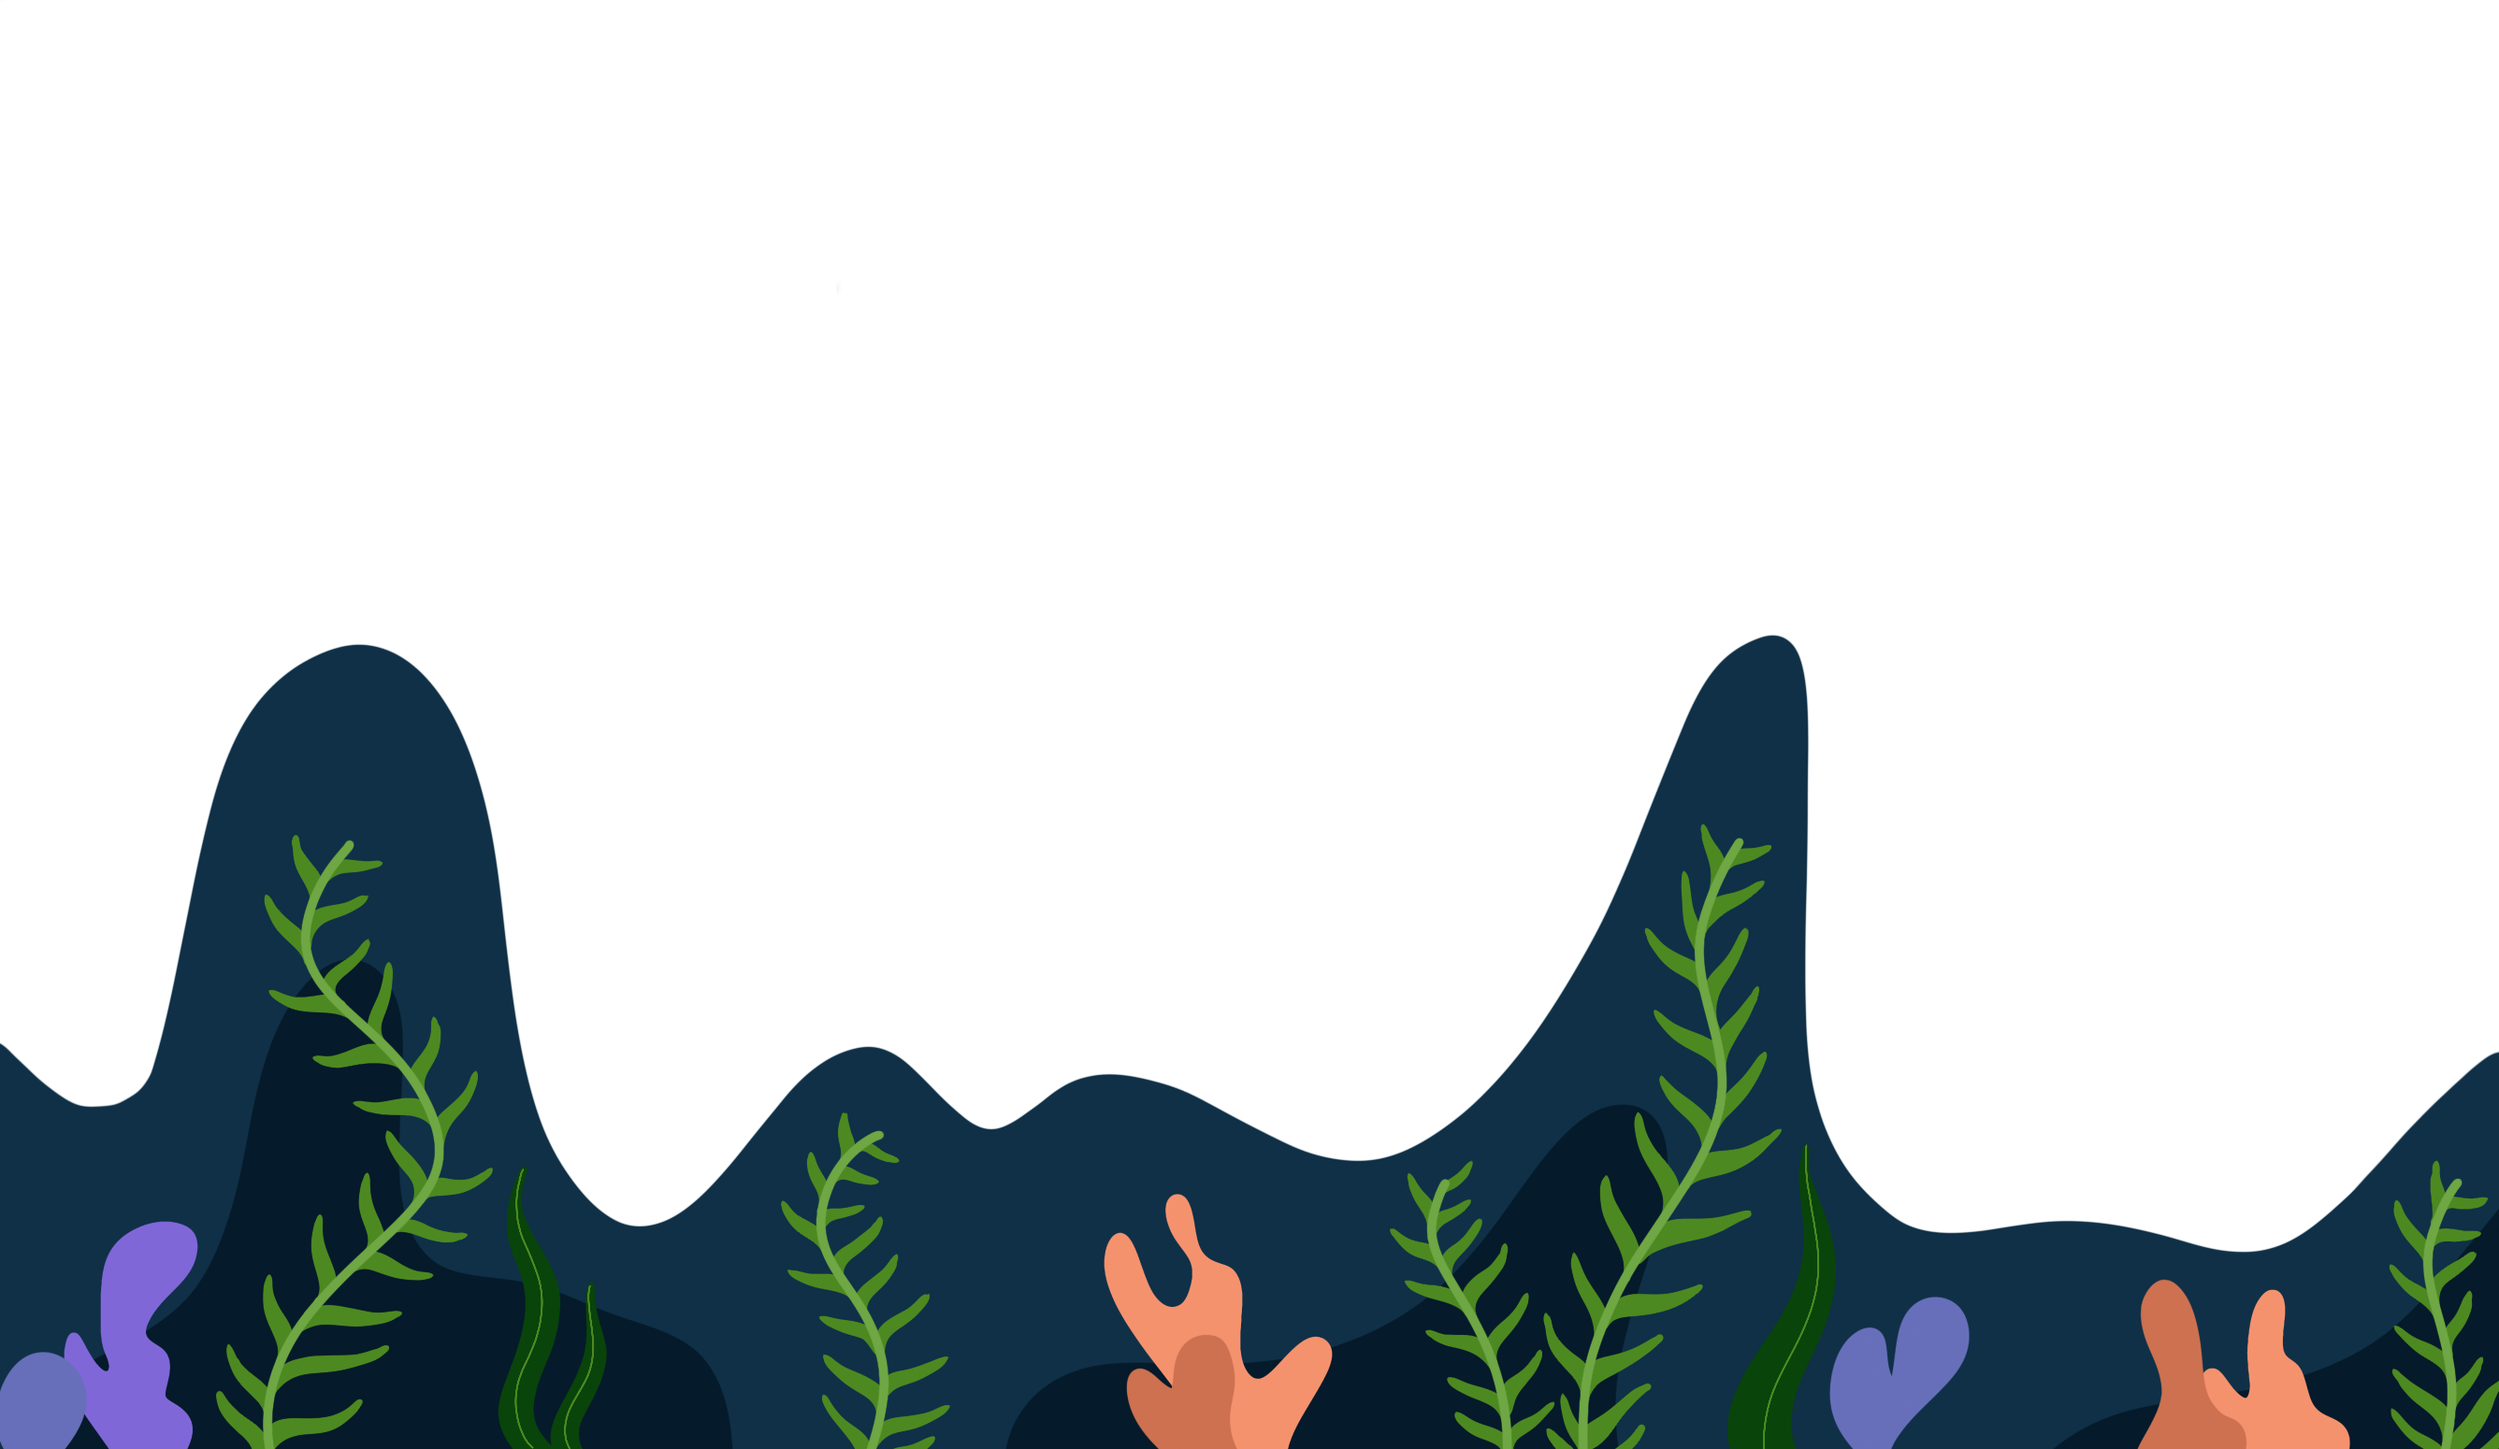
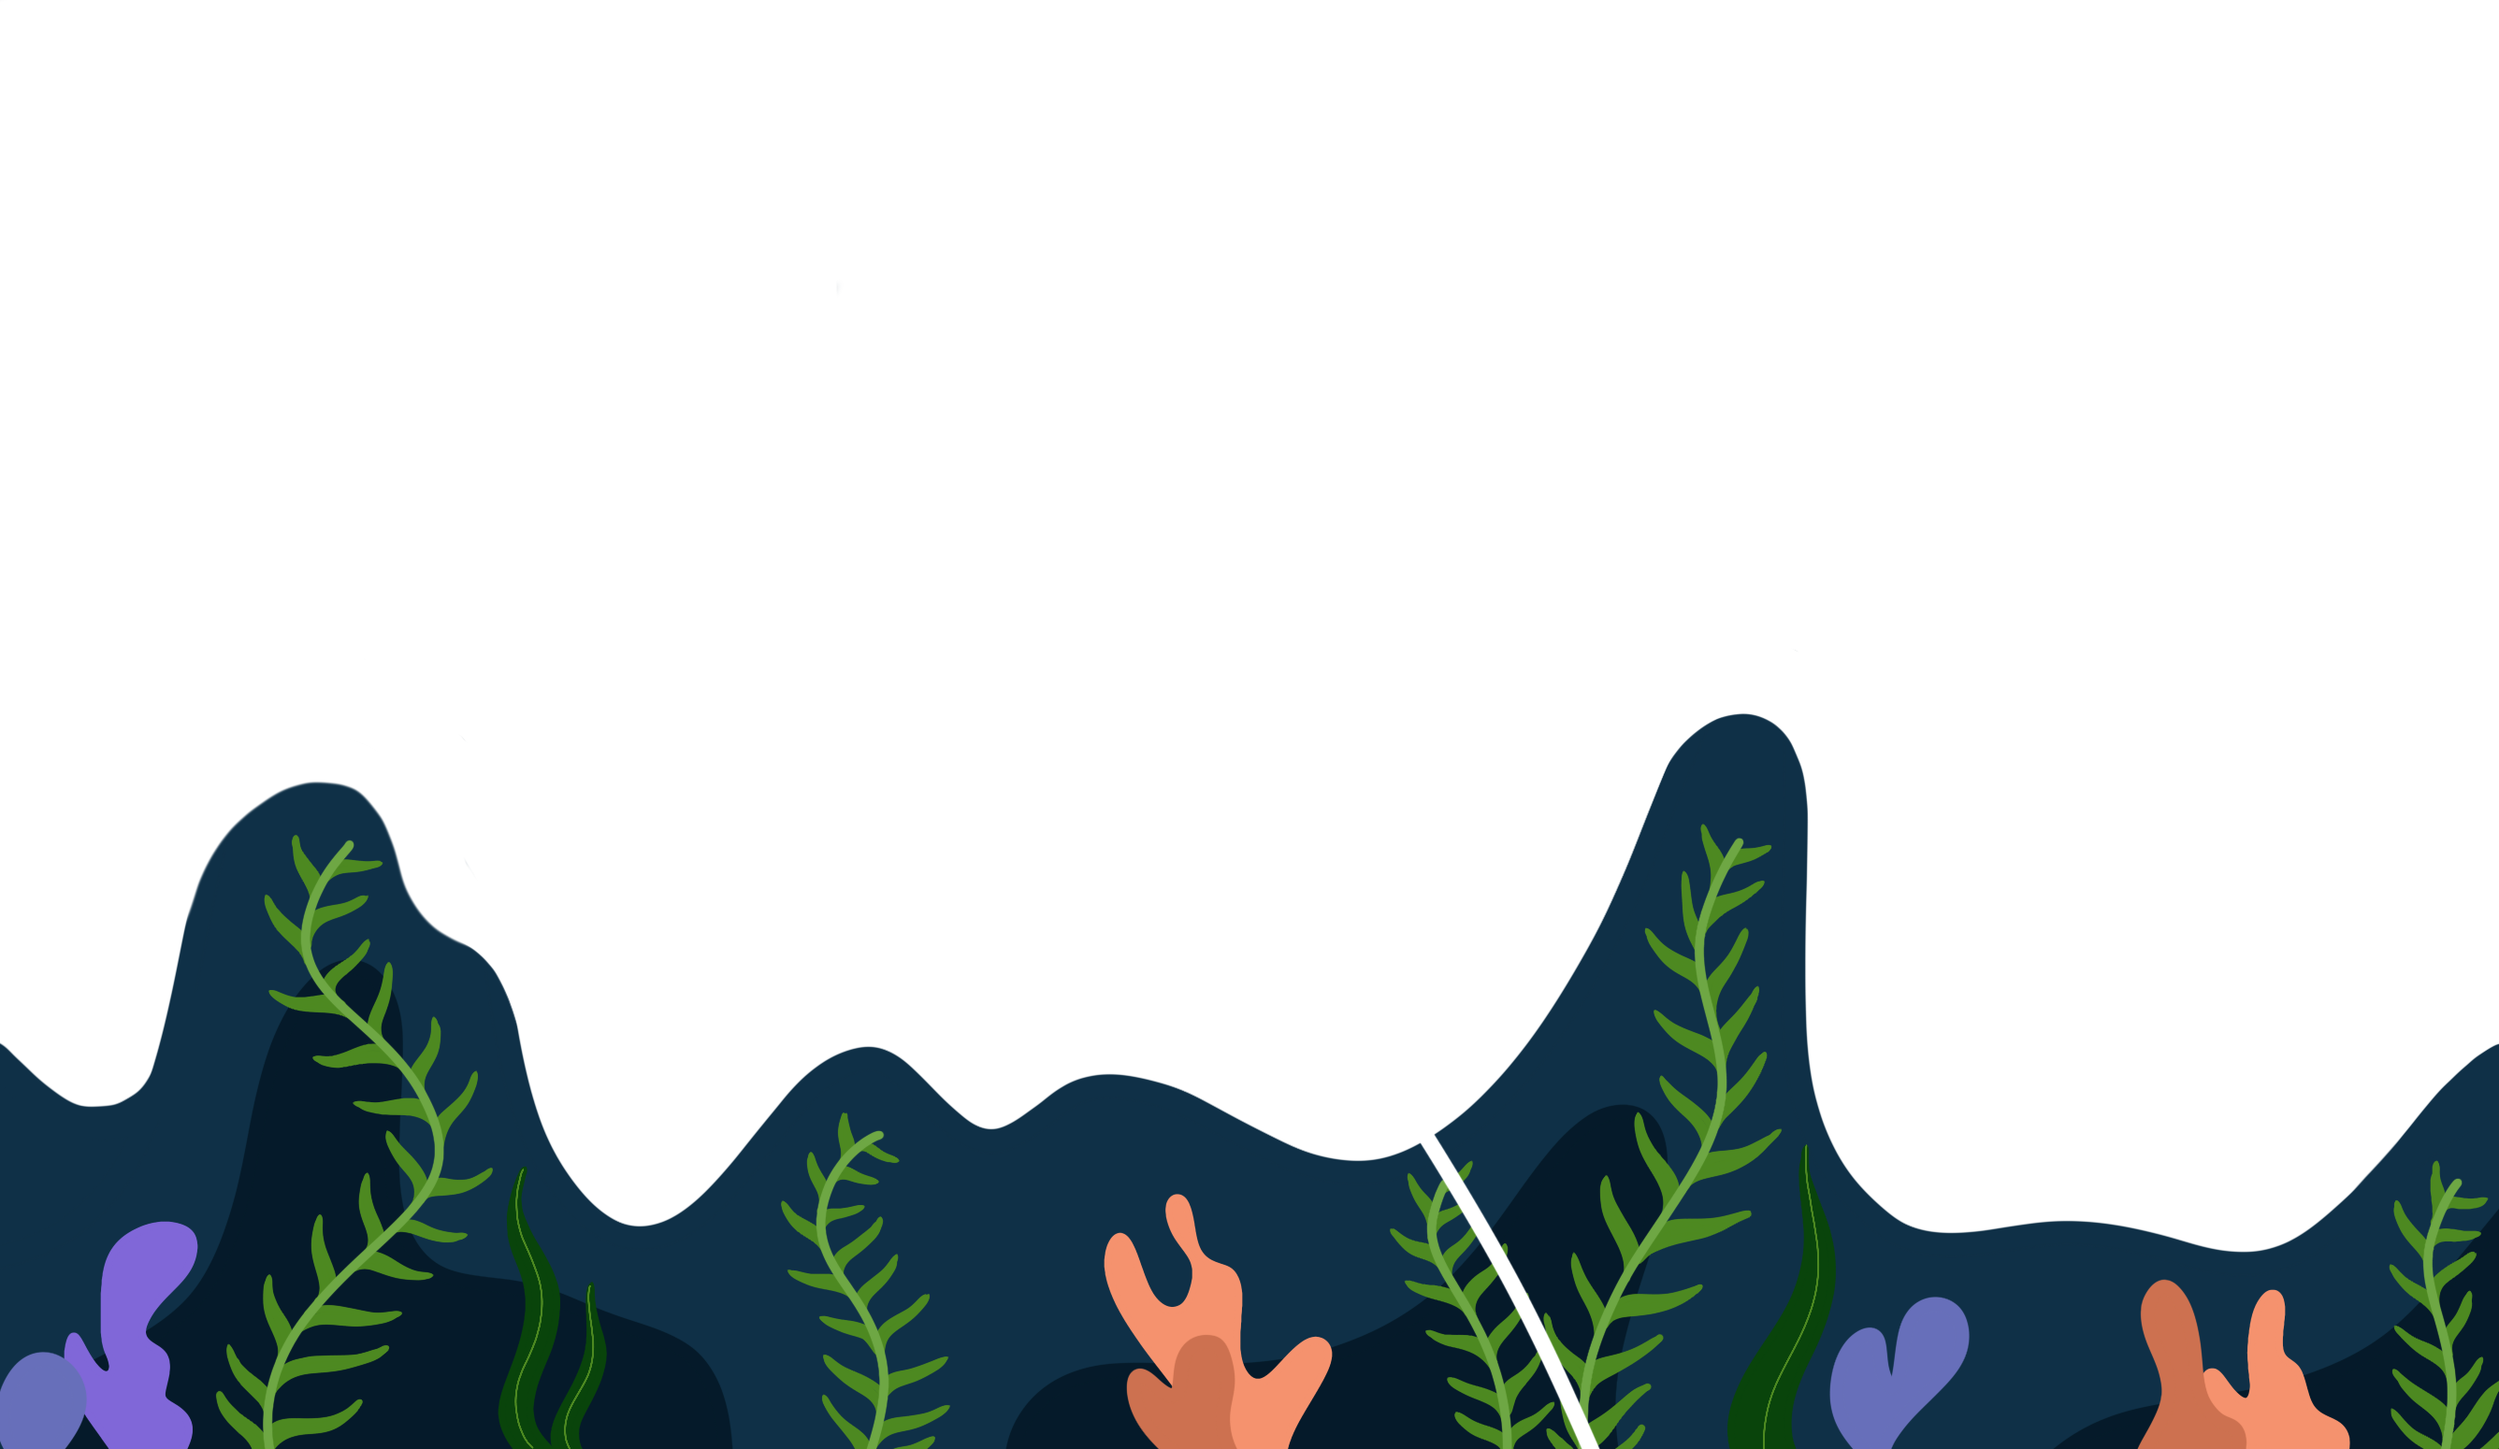
finished

diff --git a/cavediver.js b/cavediver.js
@@ -39,28 +39,28 @@ diver2.src = "https://i.imgur.com/FJc6tu3.png"; //male_color_2.PNG
 var diver = diver1; //default
 
 //Cave Walls
-const  b1 = new Image(); b1.setAttribute('crossOrigin', 'Anonymous'); b1.src = "https://i.imgur.com/zV5hCVX.png";
-const  b2 = new Image(); b2.setAttribute('crossOrigin', 'Anonymous'); b2.src = "https://i.imgur.com/zPaUh4z.png";
-const  b3 = new Image(); b3.setAttribute('crossOrigin', 'Anonymous'); b3.src = "https://i.imgur.com/6bTTZht.png";
-const  b4 = new Image(); b4.setAttribute('crossOrigin', 'Anonymous'); b4.src = "https://i.imgur.com/UFx9UvF.png";
-const  t1 = new Image(); t1.setAttribute('crossOrigin', 'Anonymous'); t1.src = "https://i.imgur.com/639as54.png";
-const  t2 = new Image(); t2.setAttribute('crossOrigin', 'Anonymous'); t2.src = "https://i.imgur.com/6BaUWgd.png";
-const  t3 = new Image(); t3.setAttribute('crossOrigin', 'Anonymous'); t3.src = "https://i.imgur.com/5v2kLiB.png";
-const  t4 = new Image(); t4.setAttribute('crossOrigin', 'Anonymous'); t4.src = "https://i.imgur.com/SrKrpN2.png";
+const  b1 = new Image(); b1.setAttribute('crossOrigin', 'Anonymous'); b1.src = "https://i.imgur.com/dwUS53c.png";
+const  b2 = new Image(); b2.setAttribute('crossOrigin', 'Anonymous'); b2.src = "https://i.imgur.com/qlSYdf8.png";
+const  b3 = new Image(); b3.setAttribute('crossOrigin', 'Anonymous'); b3.src = "https://i.imgur.com/wJ4bFCf.png";
+const  b4 = new Image(); b4.setAttribute('crossOrigin', 'Anonymous'); b4.src = "https://i.imgur.com/LhpmCoE.png";
+const  t1 = new Image(); t1.setAttribute('crossOrigin', 'Anonymous'); t1.src = "https://i.imgur.com/6lhX7kc.png";
+const  t2 = new Image(); t2.setAttribute('crossOrigin', 'Anonymous'); t2.src = "https://i.imgur.com/KNrlkLh.png";
+const  t3 = new Image(); t3.setAttribute('crossOrigin', 'Anonymous'); t3.src = "https://i.imgur.com/xxjym4d.png";
+const  t4 = new Image(); t4.setAttribute('crossOrigin', 'Anonymous'); t4.src = "https://i.imgur.com/DbnM9fV.png";
 var bottoms = [b1, b2, b3, b4];
 var tops = [t1, t2, t3, t4];
 var top_indices = [0, 1];
 var bottom_indices = [2, 3];
 
 //Cave Walls for Collision
-const  b1_b = new Image(); b1_b.setAttribute('crossOrigin', 'Anonymous'); b1_b.src = "https://i.imgur.com/KRayrTY.png";
-const  b2_b = new Image(); b2_b.setAttribute('crossOrigin', 'Anonymous'); b2_b.src = "https://i.imgur.com/DBGTHXw.png";
-const  b3_b = new Image(); b3_b.setAttribute('crossOrigin', 'Anonymous'); b3_b.src = "https://i.imgur.com/kVrlhfF.png";
-const  b4_b = new Image(); b4_b.setAttribute('crossOrigin', 'Anonymous'); b4_b.src = "https://i.imgur.com/CUwN4Js.png";
-const  t1_b = new Image(); t1_b.setAttribute('crossOrigin', 'Anonymous'); t1_b.src = "https://i.imgur.com/oWdRCjR.png";
-const  t2_b = new Image(); t2_b.setAttribute('crossOrigin', 'Anonymous'); t2_b.src = "https://i.imgur.com/fdJng4y.png";
-const  t3_b = new Image(); t3_b.setAttribute('crossOrigin', 'Anonymous'); t3_b.src = "https://i.imgur.com/hzW8h1s.png";
-const  t4_b = new Image(); t4_b.setAttribute('crossOrigin', 'Anonymous'); t4_b.src = "https://i.imgur.com/azOZ0jo.png";
+const  b1_b = new Image(); b1_b.setAttribute('crossOrigin', 'Anonymous'); b1_b.src = "https://i.imgur.com/T5bydCP.png";
+const  b2_b = new Image(); b2_b.setAttribute('crossOrigin', 'Anonymous'); b2_b.src = "https://i.imgur.com/AEG3jlH.png";
+const  b3_b = new Image(); b3_b.setAttribute('crossOrigin', 'Anonymous'); b3_b.src = "https://i.imgur.com/iQqHUw0.png";
+const  b4_b = new Image(); b4_b.setAttribute('crossOrigin', 'Anonymous'); b4_b.src = "https://i.imgur.com/BMawcXu.png";
+const  t1_b = new Image(); t1_b.setAttribute('crossOrigin', 'Anonymous'); t1_b.src = "https://i.imgur.com/fGigIkK.png";
+const  t2_b = new Image(); t2_b.setAttribute('crossOrigin', 'Anonymous'); t2_b.src = "https://i.imgur.com/oF9ZJPO.png";
+const  t3_b = new Image(); t3_b.setAttribute('crossOrigin', 'Anonymous'); t3_b.src = "https://i.imgur.com/KR7Ugos.png";
+const  t4_b = new Image(); t4_b.setAttribute('crossOrigin', 'Anonymous'); t4_b.src = "https://i.imgur.com/nGlu3Hh.png";
 var bottoms_b = [b1_b, b2_b, b3_b, b4_b];
 var tops_b = [t1_b, t2_b, t3_b, t4_b];
 var top_b_indices = [0, 1];
